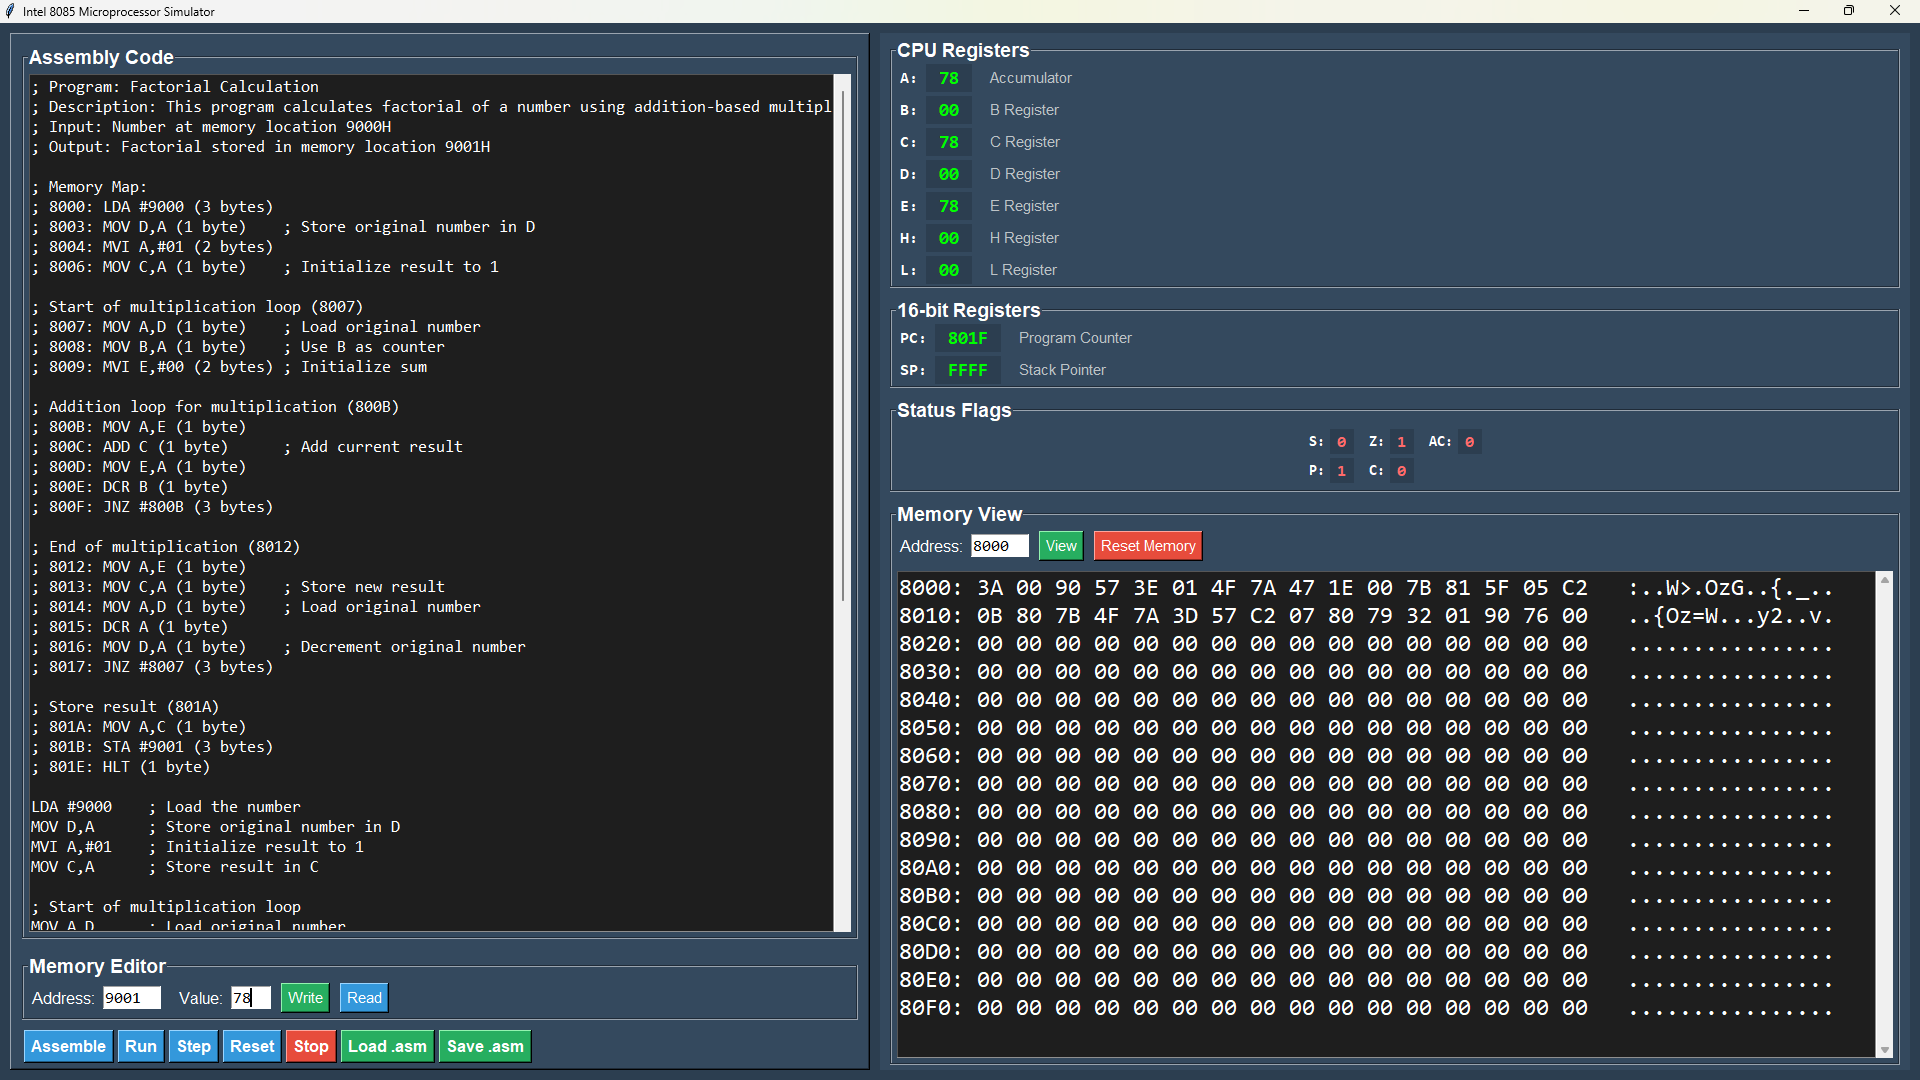
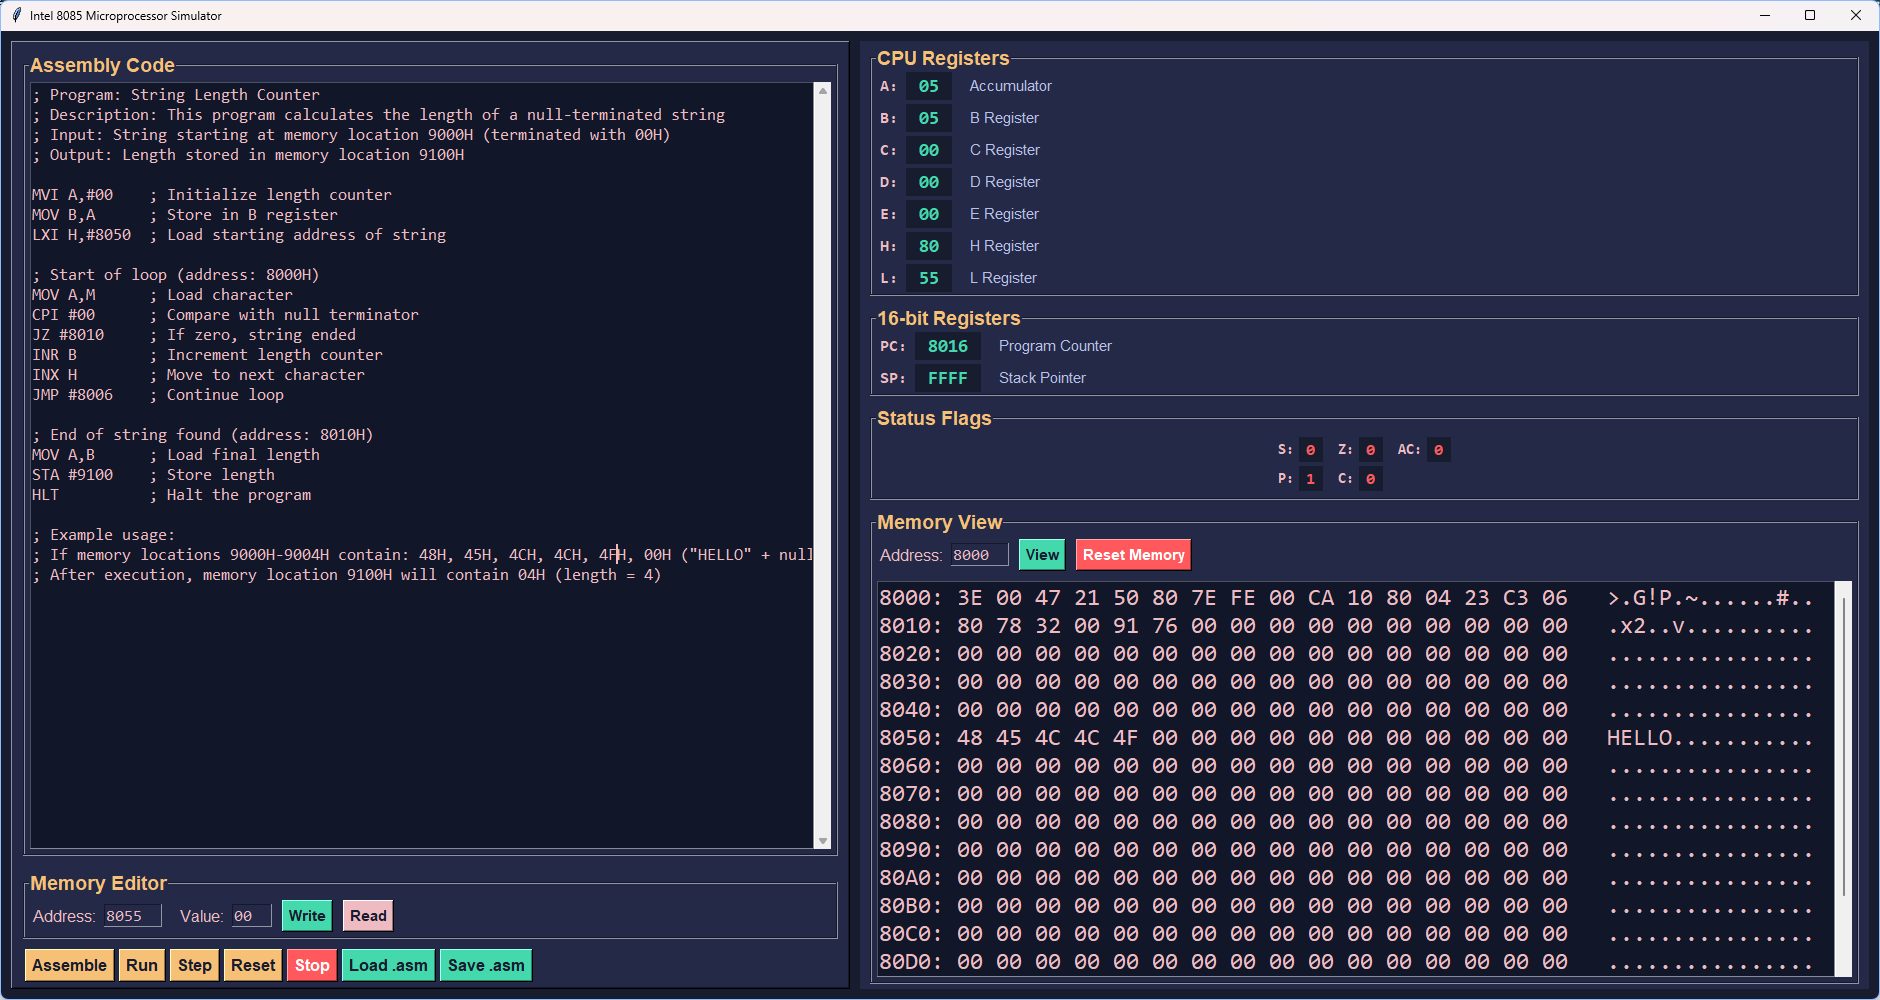
update

diff --git a/Src/Interface/SimulatorGUI.py b/Src/Interface/SimulatorGUI.py
@@ -16,7 +16,7 @@ class SimulatorGUI:
         self.root = tk.Tk()
         self.root.title("Intel 8085 Microprocessor Simulator")
         self.root.geometry("1400x900")  # Increased window size
-        self.root.configure(bg='#2c3e50')
+        self.root.configure(bg='#181c2f')
         
         # Initialize simulator components
         self.memory = Memory()
@@ -35,71 +35,71 @@ class SimulatorGUI:
     def create_widgets(self):
         """Create and layout GUI widgets"""
         # Main frame
-        main_frame = tk.Frame(self.root, bg='#2c3e50')
+        main_frame = tk.Frame(self.root, bg='#181c2f')
         main_frame.pack(fill=tk.BOTH, expand=True, padx=10, pady=10)
         
         # Left panel - Code editor and controls
-        left_panel = tk.Frame(main_frame, bg='#34495e', relief=tk.RAISED, bd=2)
+        left_panel = tk.Frame(main_frame, bg='#232946', relief=tk.RAISED, bd=2)
         left_panel.pack(side=tk.LEFT, fill=tk.BOTH, expand=True, padx=(0, 5))
         
         # Code editor
-        code_frame = tk.LabelFrame(left_panel, text="Assembly Code", bg='#34495e', fg='white', font=('Arial', 14, 'bold'))
+        code_frame = tk.LabelFrame(left_panel, text="Assembly Code", bg='#232946', fg='#f6c177', font=('Arial', 14, 'bold'))
         code_frame.pack(fill=tk.BOTH, expand=True, padx=10, pady=10)
         
         self.code_text = scrolledtext.ScrolledText(
             code_frame, 
             width=50,  # Increased width to match right side
             height=20,
-            bg='#1e1e1e',
-            fg='#ffffff',
-            insertbackground='white',
+            bg='#121629',
+            fg='#eebbc3',
+            insertbackground='#eebbc3',
             font=('Consolas', 13),
             wrap=tk.NONE
         )
         self.code_text.pack(fill=tk.BOTH, expand=True, padx=5, pady=5)
         
         # Memory Editor Section
-        mem_edit_frame = tk.LabelFrame(left_panel, text="Memory Editor", bg='#34495e', fg='white', font=('Arial', 14, 'bold'))
+        mem_edit_frame = tk.LabelFrame(left_panel, text="Memory Editor", bg='#232946', fg='#f6c177', font=('Arial', 14, 'bold'))
         mem_edit_frame.pack(fill=tk.X, padx=10, pady=5)
         
         # Memory editor controls
-        edit_controls = tk.Frame(mem_edit_frame, bg='#34495e')
+        edit_controls = tk.Frame(mem_edit_frame, bg='#232946')
         edit_controls.pack(fill=tk.X, padx=5, pady=5)
         
-        tk.Label(edit_controls, text="Address:", bg='#34495e', fg='white', font=('Arial', 12)).pack(side=tk.LEFT)
-        self.edit_addr_entry = tk.Entry(edit_controls, width=6, font=('Consolas', 12))
+        tk.Label(edit_controls, text="Address:", bg='#232946', fg='#eebbc3', font=('Arial', 12)).pack(side=tk.LEFT)
+        self.edit_addr_entry = tk.Entry(edit_controls, width=6, font=('Consolas', 12), bg='#232946', fg='#eebbc3', insertbackground='#eebbc3')
         self.edit_addr_entry.pack(side=tk.LEFT, padx=5)
         self.edit_addr_entry.insert(0, "9000")
         
-        tk.Label(edit_controls, text="Value:", bg='#34495e', fg='white', font=('Arial', 12)).pack(side=tk.LEFT, padx=(10,0))
-        self.edit_value_entry = tk.Entry(edit_controls, width=4, font=('Consolas', 12))
+        tk.Label(edit_controls, text="Value:", bg='#232946', fg='#eebbc3', font=('Arial', 12)).pack(side=tk.LEFT, padx=(10,0))
+        self.edit_value_entry = tk.Entry(edit_controls, width=4, font=('Consolas', 12), bg='#232946', fg='#eebbc3', insertbackground='#eebbc3')
         self.edit_value_entry.pack(side=tk.LEFT, padx=5)
         
-        tk.Button(edit_controls, text="Write", command=self.write_memory_byte, bg='#27ae60', fg='white', font=('Arial', 11)).pack(side=tk.LEFT, padx=5)
-        tk.Button(edit_controls, text="Read", command=self.read_memory_byte, bg='#3498db', fg='white', font=('Arial', 11)).pack(side=tk.LEFT, padx=5)
+        tk.Button(edit_controls, text="Write", command=self.write_memory_byte, bg='#43d9ad', fg='#181c2f', font=('Arial', 11, 'bold')).pack(side=tk.LEFT, padx=5)
+        tk.Button(edit_controls, text="Read", command=self.read_memory_byte, bg='#eebbc3', fg='#181c2f', font=('Arial', 11, 'bold')).pack(side=tk.LEFT, padx=5)
         
         # Control buttons
-        control_frame = tk.Frame(left_panel, bg='#34495e')
+        control_frame = tk.Frame(left_panel, bg='#232946')
         control_frame.pack(fill=tk.X, padx=10, pady=5)
         
-        btn_style = {'bg': '#3498db', 'fg': 'white', 'font': ('Arial', 12, 'bold'), 'relief': tk.RAISED, 'bd': 2}
+        btn_style = {'bg': '#f6c177', 'fg': '#181c2f', 'font': ('Arial', 12, 'bold'), 'relief': tk.RAISED, 'bd': 2}
         
         tk.Button(control_frame, text="Assemble", command=self.assemble_code, **btn_style).pack(side=tk.LEFT, padx=2)
         tk.Button(control_frame, text="Run", command=self.run_program, **btn_style).pack(side=tk.LEFT, padx=2)
         tk.Button(control_frame, text="Step", command=self.step_program, **btn_style).pack(side=tk.LEFT, padx=2)
         tk.Button(control_frame, text="Reset", command=self.reset_cpu, **btn_style).pack(side=tk.LEFT, padx=2)
-        tk.Button(control_frame, text="Stop", command=self.stop_program, bg='#e74c3c', fg='white', font=('Arial', 12, 'bold')).pack(side=tk.LEFT, padx=2)
+        tk.Button(control_frame, text="Stop", command=self.stop_program, bg='#ff595e', fg='#fff', font=('Arial', 12, 'bold')).pack(side=tk.LEFT, padx=2)
         
         # Add Load and Save buttons
-        tk.Button(control_frame, text="Load .asm", command=self.load_asm_file, bg='#27ae60', fg='white', font=('Arial', 12, 'bold')).pack(side=tk.LEFT, padx=2)
-        tk.Button(control_frame, text="Save .asm", command=self.save_asm_file, bg='#27ae60', fg='white', font=('Arial', 12, 'bold')).pack(side=tk.LEFT, padx=2)
+        tk.Button(control_frame, text="Load .asm", command=self.load_asm_file, bg='#43d9ad', fg='#181c2f', font=('Arial', 12, 'bold')).pack(side=tk.LEFT, padx=2)
+        tk.Button(control_frame, text="Save .asm", command=self.save_asm_file, bg='#43d9ad', fg='#181c2f', font=('Arial', 12, 'bold')).pack(side=tk.LEFT, padx=2)
         
         # Right panel - CPU state and memory
-        right_panel = tk.Frame(main_frame, bg='#34495e')
+        right_panel = tk.Frame(main_frame, bg='#232946')
         right_panel.pack(side=tk.RIGHT, fill=tk.BOTH, expand=True, padx=(5, 0))
         
         # CPU Registers
-        reg_frame = tk.LabelFrame(right_panel, text="CPU Registers", bg='#34495e', fg='white', font=('Arial', 14, 'bold'))
+        reg_frame = tk.LabelFrame(right_panel, text="CPU Registers", bg='#232946', fg='#f6c177', font=('Arial', 14, 'bold'))
         reg_frame.pack(fill=tk.X, padx=10, pady=5)
         
         self.reg_labels = {}
@@ -109,70 +109,70 @@ class SimulatorGUI:
         ]
         
         for i, (reg, desc) in enumerate(reg_info):
-            frame = tk.Frame(reg_frame, bg='#34495e')
+            frame = tk.Frame(reg_frame, bg='#232946')
             frame.pack(fill=tk.X, padx=5, pady=2)
             
-            tk.Label(frame, text=f"{reg}:", bg='#34495e', fg='white', font=('Consolas', 12, 'bold')).pack(side=tk.LEFT)
-            self.reg_labels[reg] = tk.Label(frame, text="00", bg='#2c3e50', fg='#00ff00', font=('Consolas', 14, 'bold'), width=4)
+            tk.Label(frame, text=f"{reg}:", bg='#232946', fg='#eebbc3', font=('Consolas', 12, 'bold')).pack(side=tk.LEFT)
+            self.reg_labels[reg] = tk.Label(frame, text="00", bg='#181c2f', fg='#43d9ad', font=('Consolas', 14, 'bold'), width=4)
             self.reg_labels[reg].pack(side=tk.LEFT, padx=5)
-            tk.Label(frame, text=desc, bg='#34495e', fg='#bdc3c7', font=('Arial', 11)).pack(side=tk.LEFT, padx=10)
+            tk.Label(frame, text=desc, bg='#232946', fg='#b8c1ec', font=('Arial', 11)).pack(side=tk.LEFT, padx=10)
         
         # 16-bit registers
-        reg16_frame = tk.LabelFrame(right_panel, text="16-bit Registers", bg='#34495e', fg='white', font=('Arial', 14, 'bold'))
+        reg16_frame = tk.LabelFrame(right_panel, text="16-bit Registers", bg='#232946', fg='#f6c177', font=('Arial', 14, 'bold'))
         reg16_frame.pack(fill=tk.X, padx=10, pady=5)
         
         reg16_info = [('PC', 'Program Counter'), ('SP', 'Stack Pointer')]
         
         for reg, desc in reg16_info:
-            frame = tk.Frame(reg16_frame, bg='#34495e')
+            frame = tk.Frame(reg16_frame, bg='#232946')
             frame.pack(fill=tk.X, padx=5, pady=2)
             
-            tk.Label(frame, text=f"{reg}:", bg='#34495e', fg='white', font=('Consolas', 12, 'bold')).pack(side=tk.LEFT)
-            self.reg_labels[reg] = tk.Label(frame, text="0000", bg='#2c3e50', fg='#00ff00', font=('Consolas', 14, 'bold'), width=6)
+            tk.Label(frame, text=f"{reg}:", bg='#232946', fg='#eebbc3', font=('Consolas', 12, 'bold')).pack(side=tk.LEFT)
+            self.reg_labels[reg] = tk.Label(frame, text="0000", bg='#181c2f', fg='#43d9ad', font=('Consolas', 14, 'bold'), width=6)
             self.reg_labels[reg].pack(side=tk.LEFT, padx=5)
-            tk.Label(frame, text=desc, bg='#34495e', fg='#bdc3c7', font=('Arial', 11)).pack(side=tk.LEFT, padx=10)
+            tk.Label(frame, text=desc, bg='#232946', fg='#b8c1ec', font=('Arial', 11)).pack(side=tk.LEFT, padx=10)
         
         # Flags
-        flags_frame = tk.LabelFrame(right_panel, text="Status Flags", bg='#34495e', fg='white', font=('Arial', 14, 'bold'))
+        flags_frame = tk.LabelFrame(right_panel, text="Status Flags", bg='#232946', fg='#f6c177', font=('Arial', 14, 'bold'))
         flags_frame.pack(fill=tk.X, padx=10, pady=5)
         
         self.flag_labels = {}
         flags_info = [('S', 'Sign'), ('Z', 'Zero'), ('AC', 'Aux Carry'), ('P', 'Parity'), ('C', 'Carry')]
         
-        flags_grid = tk.Frame(flags_frame, bg='#34495e')
+        flags_grid = tk.Frame(flags_frame, bg='#232946')
         flags_grid.pack(padx=5, pady=5)
         
         for i, (flag, desc) in enumerate(flags_info):
-            frame = tk.Frame(flags_grid, bg='#34495e')
+            frame = tk.Frame(flags_grid, bg='#232946')
             frame.grid(row=i//3, column=i%3, padx=5, pady=2, sticky='w')
             
-            tk.Label(frame, text=f"{flag}:", bg='#34495e', fg='white', font=('Consolas', 11, 'bold')).pack(side=tk.LEFT)
-            self.flag_labels[flag] = tk.Label(frame, text="0", bg='#2c3e50', fg='#ff6b6b', font=('Consolas', 12, 'bold'), width=2)
+            tk.Label(frame, text=f"{flag}:", bg='#232946', fg='#eebbc3', font=('Consolas', 11, 'bold')).pack(side=tk.LEFT)
+            self.flag_labels[flag] = tk.Label(frame, text="0", bg='#181c2f', fg='#ff595e', font=('Consolas', 12, 'bold'), width=2)
             self.flag_labels[flag].pack(side=tk.LEFT, padx=2)
         
         # Memory viewer
-        mem_frame = tk.LabelFrame(right_panel, text="Memory View", bg='#34495e', fg='white', font=('Arial', 14, 'bold'))
+        mem_frame = tk.LabelFrame(right_panel, text="Memory View", bg='#232946', fg='#f6c177', font=('Arial', 14, 'bold'))
         mem_frame.pack(fill=tk.BOTH, expand=True, padx=10, pady=5)
         
         # Memory address input
-        addr_frame = tk.Frame(mem_frame, bg='#34495e')
+        addr_frame = tk.Frame(mem_frame, bg='#232946')
         addr_frame.pack(fill=tk.X, padx=5, pady=5)
         
-        tk.Label(addr_frame, text="Address:", bg='#34495e', fg='white', font=('Arial', 12)).pack(side=tk.LEFT)
-        self.addr_entry = tk.Entry(addr_frame, width=6, font=('Consolas', 12))
+        tk.Label(addr_frame, text="Address:", bg='#232946', fg='#eebbc3', font=('Arial', 12)).pack(side=tk.LEFT)
+        self.addr_entry = tk.Entry(addr_frame, width=6, font=('Consolas', 12), bg='#232946', fg='#eebbc3', insertbackground='#eebbc3')
         self.addr_entry.pack(side=tk.LEFT, padx=5)
         self.addr_entry.insert(0, "8000")
         
-        tk.Button(addr_frame, text="View", command=self.update_memory_view, bg='#27ae60', fg='white', font=('Arial', 11)).pack(side=tk.LEFT, padx=5)
-        tk.Button(addr_frame, text="Reset Memory", command=self.reset_memory, bg='#e74c3c', fg='white', font=('Arial', 11)).pack(side=tk.LEFT, padx=5)
+        tk.Button(addr_frame, text="View", command=self.update_memory_view, bg='#43d9ad', fg='#181c2f', font=('Arial', 11, 'bold')).pack(side=tk.LEFT, padx=5)
+        tk.Button(addr_frame, text="Reset Memory", command=self.reset_memory, bg='#ff595e', fg='#fff', font=('Arial', 11, 'bold')).pack(side=tk.LEFT, padx=5)
         
         # Memory display
         self.memory_text = scrolledtext.ScrolledText(
             mem_frame,
             width=50,  # Matched width with code editor
             height=20,
-            bg='#1e1e1e',
-            fg='#ffffff',
+            bg='#121629',
+            fg='#eebbc3',
             font=('Consolas', 18),
             state=tk.DISABLED
         )
@@ -182,8 +182,8 @@ class SimulatorGUI:
         self.status_bar = tk.Label(
             self.root,
             text="Ready",
-            bg='#2c3e50',
-            fg='#ecf0f1',
+            bg='#181c2f',
+            fg='#f6c177',
             font=('Arial', 12),
             relief=tk.SUNKEN,
             anchor=tk.W
